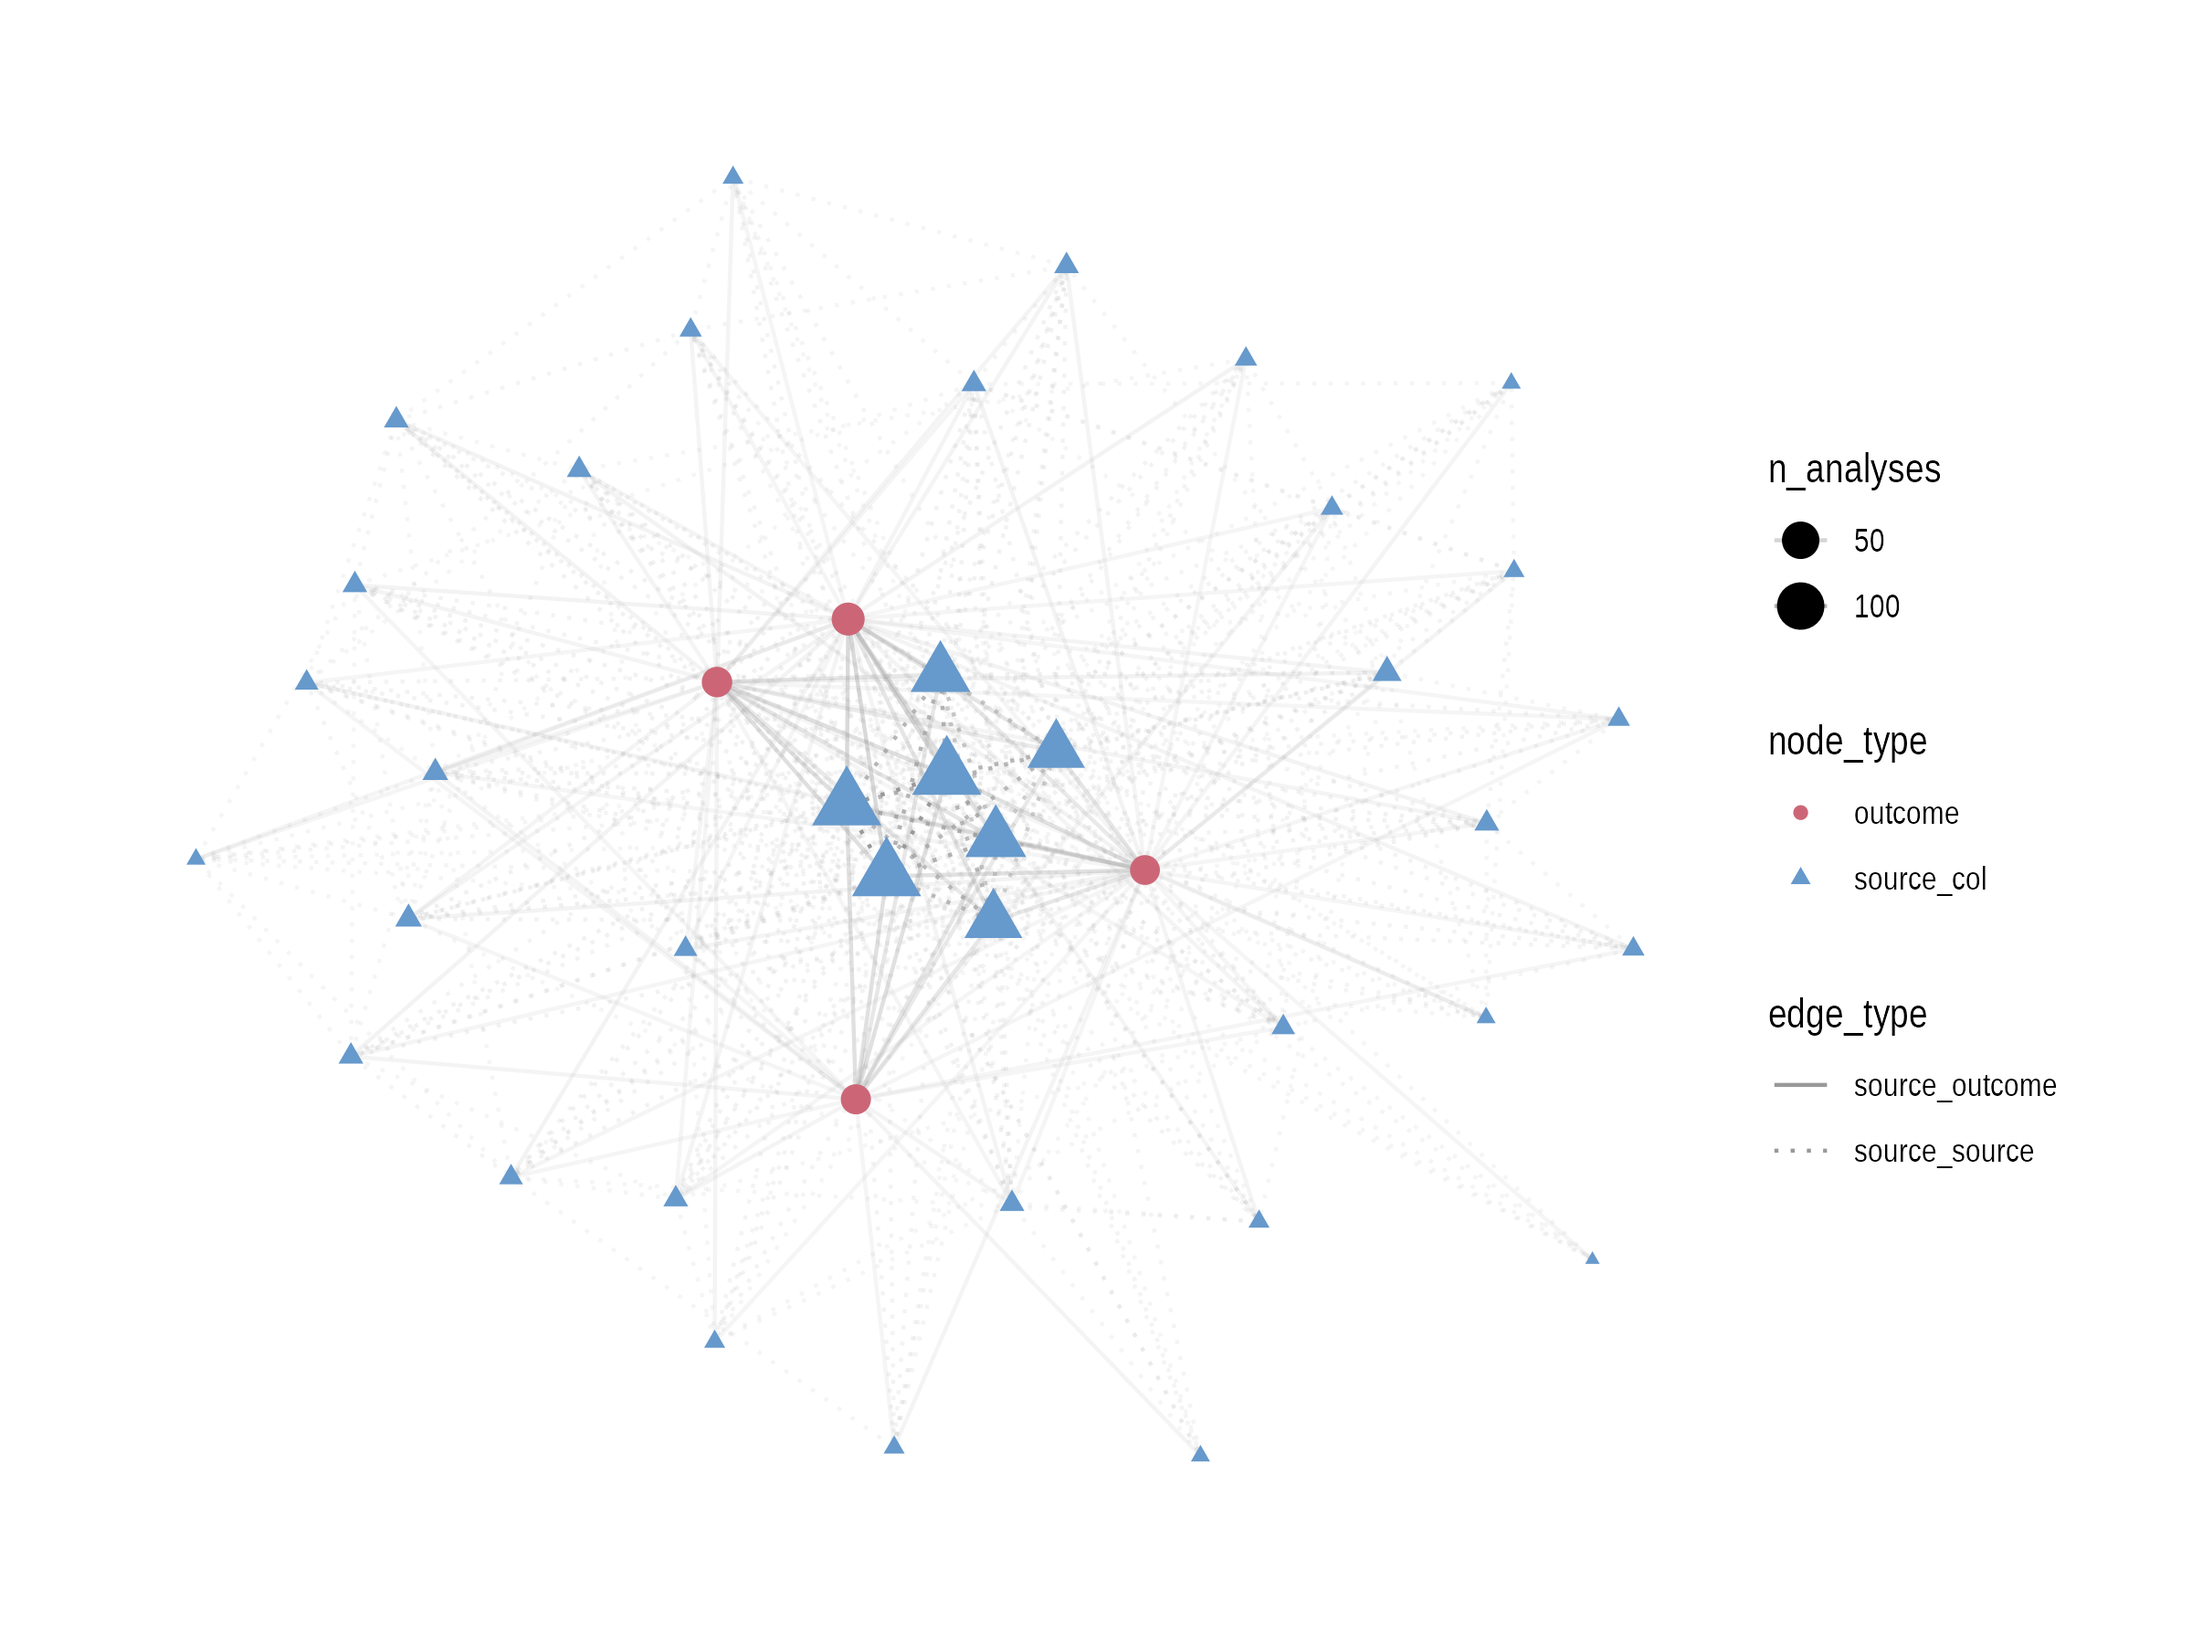
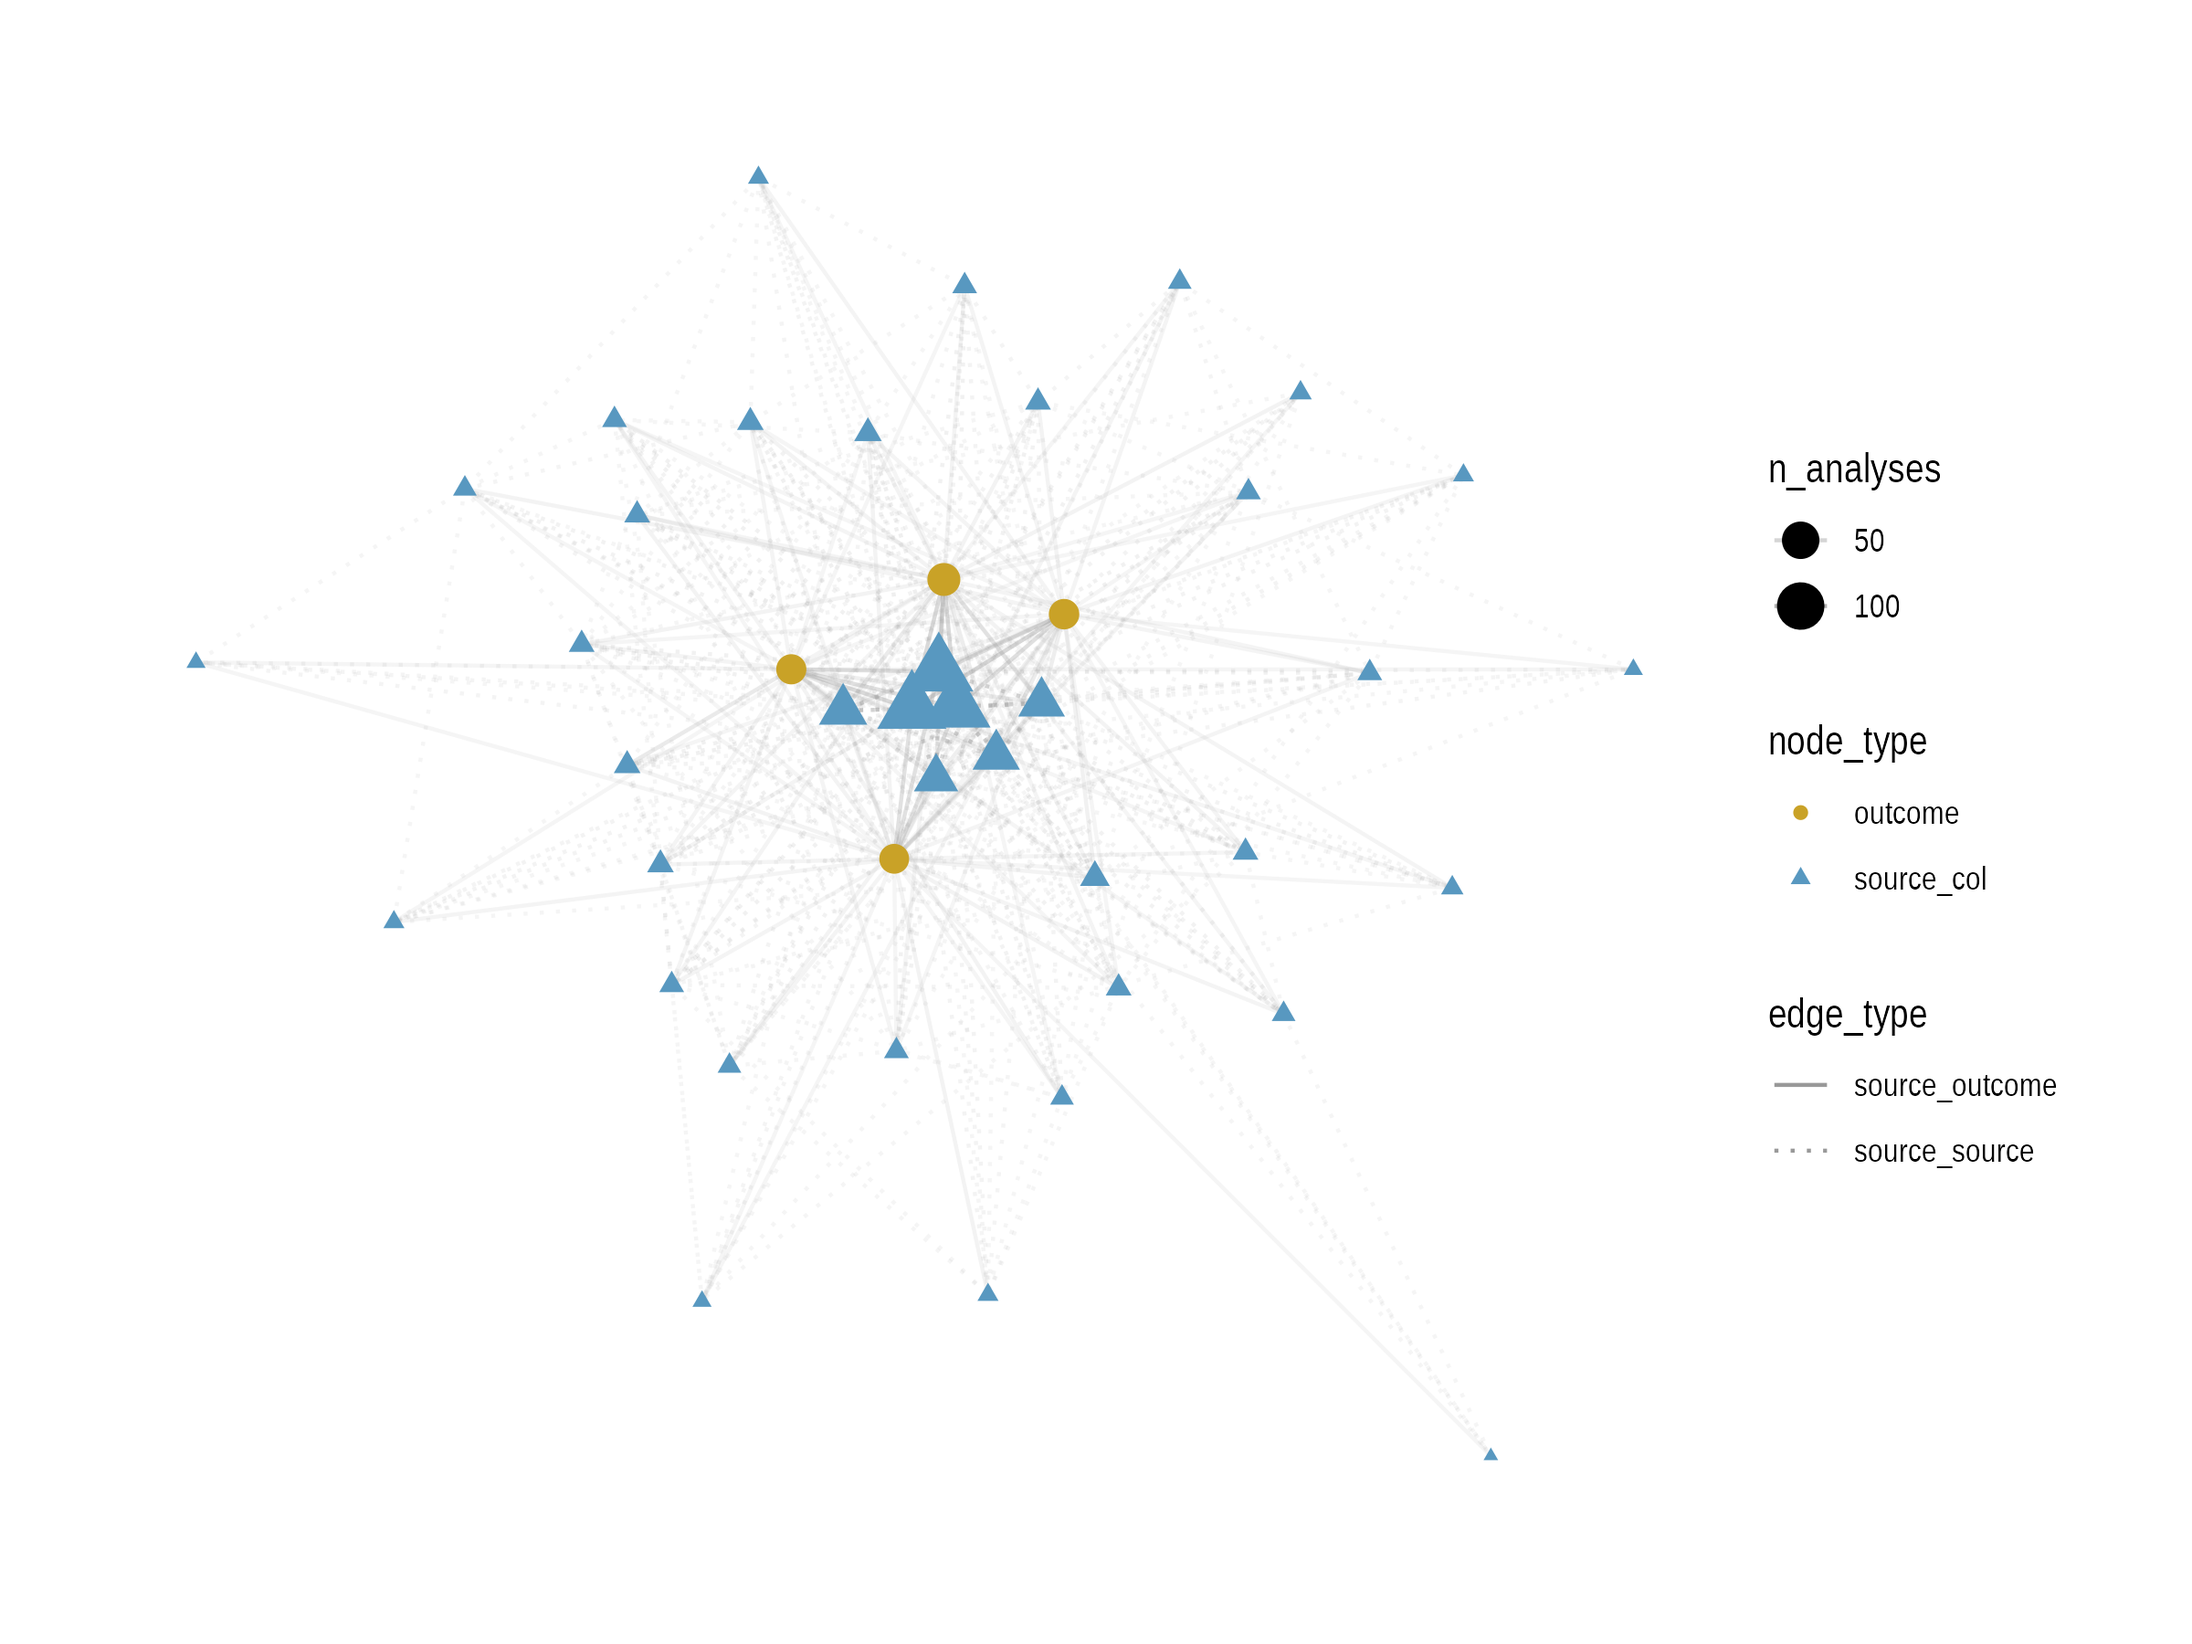
tweaked colours

diff --git a/README.md b/README.md
@@ -12,7 +12,7 @@ The simulation provides us with a way of **exploring** *before any lengthy extra
 
 ## minimal representations of core results
 
-The goal is to explore **minimal representations that faithfully align with the experiment's core results**, not find the perfect sampling technique or predict analyst behaviour.  
+The goal is to explore **minimal representations that faithfully align with the experiment's core results, privileging interpretability**. 
 
 ## graph visualisations
 
